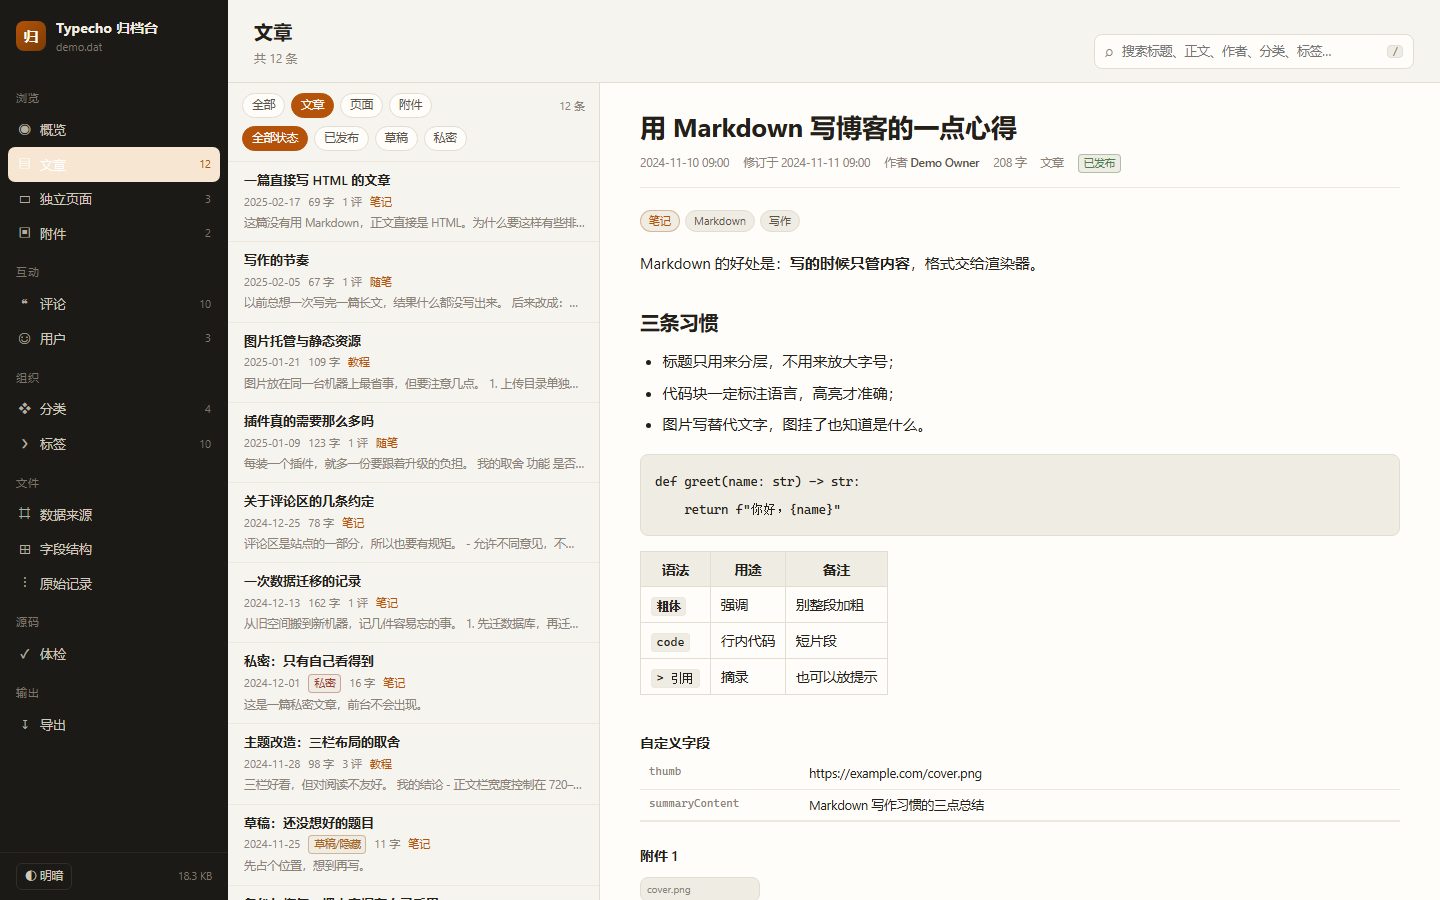
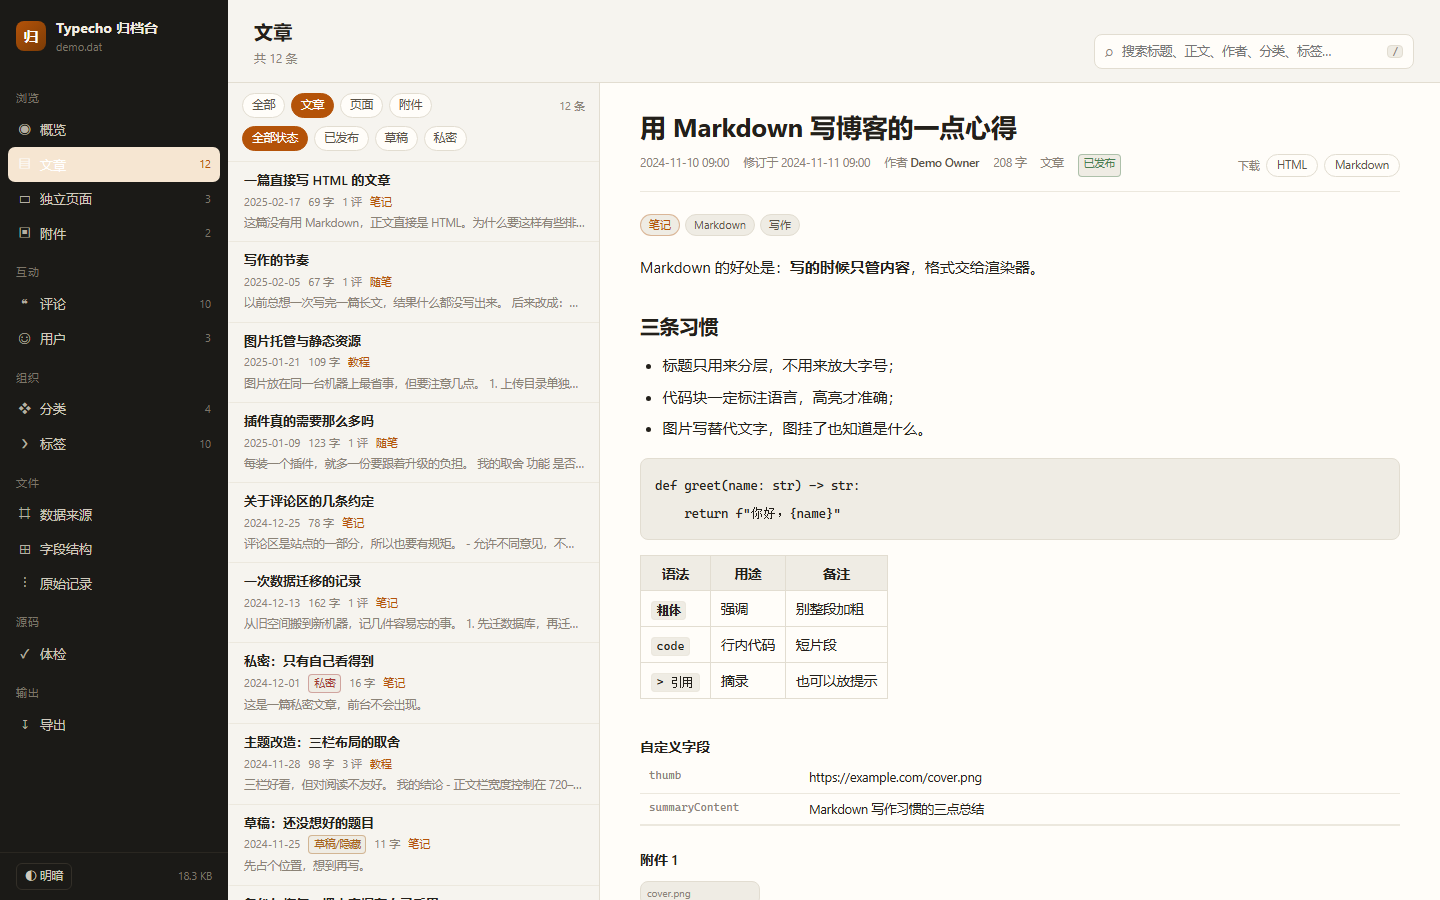
feat: 文章页支持单篇另存为 HTML / Markdown
- 文章页右上角新增「下载 HTML / Markdown」
- HTML：图片转 data URI 内联、带评论、配色跟随当前明暗主题，单文件离线可看
- Markdown：front matter 与批量导出格式完全一致，可直接混入同一目录
- 导出的评论不带评论者 IP
- 服务端模式与静态报告共用同一份实现，纯浏览器端生成，不新增接口

diff --git a/typecho_archive/ui/app.js b/typecho_archive/ui/app.js
@@ -460,6 +460,240 @@
     return `<div class="empty">${msg}</div>`;
   }
 
+  /* ----------------------------------------------------------- 单篇导出
+   * 在浏览界面里把当前文章存成独立文件。两种模式共用同一份实现：
+   * 服务端模式与静态报告都只是页面，生成与下载全在浏览器里完成。
+   */
+
+  const EXPORT_CSS = `
+* { box-sizing: border-box; }
+body { color-scheme: light; margin: 0; background: #f6f4ef; color: #23201b;
+  font: 16px/1.85 "Segoe UI", "Microsoft YaHei UI", "PingFang SC", system-ui, sans-serif;
+  -webkit-font-smoothing: antialiased; }
+.wrap { max-width: 780px; margin: 0 auto; padding: 52px 24px 72px; }
+h1 { font-size: 30px; line-height: 1.36; margin: 0 0 10px; letter-spacing: -.3px; }
+.meta { margin: 0 0 10px; font-size: 13px; color: #5a5349; }
+.chips { margin: 0 0 30px; display: flex; flex-wrap: wrap; gap: 6px; }
+.chip { font-size: 12px; padding: 1px 9px; border-radius: 999px;
+  background: #efece4; border: 1px solid #e2ddd1; color: #5a5349; }
+.prose { font-size: 15.5px; }
+.prose h1, .prose h2, .prose h3, .prose h4 { margin: 1.6em 0 .6em; line-height: 1.4; }
+.prose h2 { font-size: 1.28em; } .prose h3 { font-size: 1.1em; }
+.prose p { margin: 0 0 1.05em; }
+.prose a { color: #b45309; text-decoration: none; border-bottom: 1px solid rgba(180,83,9,.35); }
+.prose img { max-width: 100%; border-radius: 8px; display: block; margin: 1em 0; }
+.prose blockquote { margin: 1em 0; padding: .4em 1em; border-left: 3px solid #ddd7c9;
+  color: #5a5349; background: #efece4; border-radius: 0 6px 6px 0; }
+.prose code { font: .88em ui-monospace, Consolas, monospace; background: #efece4;
+  padding: .12em .38em; border-radius: 4px; border: 1px solid #ece8de; }
+.prose pre { background: #efece4; border: 1px solid #e2ddd1; border-radius: 8px;
+  padding: 12px 14px; overflow-x: auto; margin: 1em 0; }
+.prose pre code { background: none; border: 0; padding: 0; font-size: 13px; line-height: 1.7; }
+.prose table { border-collapse: collapse; margin: 1em 0; font-size: 14px; }
+.prose th, .prose td { border: 1px solid #e2ddd1; padding: 5px 10px; }
+.prose th { background: #efece4; }
+.prose hr { border: 0; border-top: 1px solid #e2ddd1; margin: 2em 0; }
+.prose ul, .prose ol { padding-left: 1.5em; margin: 0 0 1em; }
+.note { border: 1px solid #e2ddd1; border-left-width: 3px; border-radius: 8px;
+  padding: 9px 14px; margin: 1.2em 0; background: #efece4; }
+.note.warning { border-left-color: #a8641a; }
+.note.danger { border-left-color: #a33a34; }
+.note.info { border-left-color: #45688f; }
+.note-h { font-size: 12px; font-weight: 600; margin-bottom: 3px; color: #5a5349; }
+.note-b { font-size: 14px; color: #5a5349; }
+.spoiler { border: 1px dashed #ddd7c9; border-radius: 8px; padding: 10px 14px; background: #efece4; }
+.sp-body { margin-top: 8px; font-size: 13.5px; color: #5a5349; }
+.comments { margin-top: 56px; border-top: 1px solid #e2ddd1; padding-top: 24px; }
+.comments h2 { font-size: 16px; margin: 0 0 14px; }
+.cmt { border-top: 1px solid #ece8de; padding: 9px 0; }
+.cmt .h { display: flex; gap: 8px; align-items: baseline; font-size: 13px; color: #8b8377; }
+.cmt .h b { color: #23201b; }
+.cmt .x { margin-top: 3px; white-space: pre-wrap; color: #5a5349; font-size: 14px; }
+.cmt .kids { margin-left: 16px; padding-left: 12px; border-left: 1px solid #ece8de; }\n.mono { font-family: ui-monospace, Consolas, monospace; font-size: 12px; }
+footer { margin-top: 56px; padding-top: 14px; border-top: 1px solid #e2ddd1;
+  font-size: 12px; color: #8b8377; }
+body.dark { color-scheme: dark; background: #14130f; color: #ece7dc; }
+body.dark .meta, body.dark .cmt .x, body.dark .note-b, body.dark .sp-body { color: #b6ae9f; }
+body.dark .chip, body.dark .prose code, body.dark .prose pre,
+body.dark .prose th, body.dark .note, body.dark .spoiler { background: #1e1c18; border-color: #2e2b25; }
+body.dark .prose blockquote { background: #1b1a16; border-left-color: #2e2b25; }
+body.dark .prose th, body.dark .prose td, body.dark .cmt,
+body.dark .comments, body.dark footer { border-color: #2e2b25; }
+body.dark .cmt .h, body.dark footer { color: #847c6e; }
+body.dark .cmt .h b, body.dark .prose th { color: #ece7dc; }`;
+
+  function yamlScalar(value) {
+    if (value === null || value === undefined || value === '') return 'null';
+    if (typeof value === 'number') return String(value);
+    const text = String(value);
+    if (/^(null|true|false|yes|no|on|off|~)$/i.test(text) || /^[\d.+-]+$/.test(text)
+      || /[:#\[\]{}&*!|>'"%@`\n]/.test(text)) {
+      return JSON.stringify(text);
+    }
+    return text;
+  }
+
+  function yamlField(key, value) {
+    if (Array.isArray(value)) {
+      if (!value.length) return `${key}: []`;
+      return `${key}: ` + value.map(item => `\n  - ${yamlScalar(item)}`).join('');
+    }
+    return `${key}: ${yamlScalar(value)}`;
+  }
+
+  function articleBaseName(post) {
+    const slug = String(post.slug || post.cid)
+      .replace(/[<>:"/\\|?*\u0000-\u001f]/g, '_')
+      .replace(/\s+/g, ' ')
+      .trim()
+      .slice(0, 80);
+    const date = (post.createdText || '').slice(0, 10);
+    return date ? `${date}-${slug}` : slug;
+  }
+
+  function buildMarkdown(post) {
+    const lines = [
+      yamlField('title', post.title),
+      yamlField('cid', post.cid),
+      yamlField('slug', post.slug),
+      yamlField('type', post.type),
+      yamlField('status', post.status),
+      yamlField('date', post.createdText),
+      yamlField('modified', post.modifiedText),
+      yamlField('author', post.author),
+      yamlField('categories', post.categories.map(c => c.name)),
+      yamlField('tags', post.tags.map(t => t.name)),
+      yamlField('template', post.template),
+      yamlField('comments', post.commentsNum),
+      yamlField('word_count', post.chars),
+    ];
+    const body = String(post.text || '').replace(/^\s*<!--\s*markdown\s*-->\s*/i, '');
+    return '---\n' + lines.join('\n') + '\n---\n\n' + body + '\n';
+  }
+
+  async function inlineImages(root) {
+    const images = [...root.querySelectorAll('img')];
+    await Promise.all(images.map(async img => {
+      const src = img.getAttribute('src') || '';
+      if (!src || src.startsWith('data:')) return;
+      try {
+        const res = await fetch(src);
+        if (!res.ok) return;
+        const blob = await res.blob();
+        if (!blob.size || blob.size > 4 * 1024 * 1024) return;
+        const dataUrl = await new Promise((resolve, reject) => {
+          const reader = new FileReader();
+          reader.onload = () => resolve(reader.result);
+          reader.onerror = reject;
+          reader.readAsDataURL(blob);
+        });
+        img.setAttribute('src', dataUrl);
+      } catch {
+        /* 取不到就保留原地址 */
+      }
+    }));
+  }
+
+  function sourceLabel() {
+    const file = A.file || {};
+    return String(file.origin || file.path || '').split(/[\\/]/).pop() || '';
+  }
+
+  async function buildStandaloneHtml(post) {
+    const holder = document.createElement('div');
+    holder.innerHTML = renderBody(post);
+    await inlineImages(holder);
+
+    const comments = A.comments.filter(c => c.cid === post.cid);
+    const commentHtml = comments.length
+      ? `<section class="comments"><h2>评论 ${comments.length}</h2>${buildCommentTree(comments, false)}</section>`
+      : '';
+
+    const meta = [
+      post.createdText,
+      post.author ? `作者 ${post.author}` : '',
+      post.type === 'attachment' ? '' : `${nf(post.chars)} 字`,
+      post.typeLabel,
+    ].filter(Boolean).map(esc).join(' · ');
+
+    const chips = [...post.categories.map(c => c.name), ...post.tags.map(t => t.name)];
+    const chipsHtml = chips.length
+      ? `<p class="chips">${chips.map(name => `<span class="chip">${esc(name)}</span>`).join('')}</p>`
+      : '';
+
+    const stamp = new Date().toLocaleString('sv-SE').slice(0, 16);
+    // 导出的样子跟着当前界面走，而不是跟着系统偏好
+    const dark = document.documentElement.dataset.theme === 'dark';
+
+    return `<!doctype html>
+<html lang="zh-CN">
+<head>
+<meta charset="utf-8">
+<meta name="viewport" content="width=device-width, initial-scale=1">
+<title>${esc(post.title)}</title>
+<style>${EXPORT_CSS}</style>
+</head>
+<body${dark ? ' class="dark"' : ''}>
+<article class="wrap">
+  <header>
+    <h1>${esc(post.title)}</h1>
+    <p class="meta">${meta}</p>
+    ${chipsHtml}
+  </header>
+  <div class="prose">${holder.innerHTML}</div>
+  ${commentHtml}
+  <footer>由 Typecho 归档台导出 · ${esc(sourceLabel())} · cid ${post.cid} · ${esc(stamp)}</footer>
+</article>
+</body>
+</html>`;
+  }
+
+  function saveBlob(name, text, mime) {
+    const blob = new Blob([text], { type: `${mime};charset=utf-8` });
+    const url = URL.createObjectURL(blob);
+    const link = document.createElement('a');
+    link.href = url;
+    link.download = name;
+    link.style.display = 'none';
+    document.body.appendChild(link);
+    link.click();
+    setTimeout(() => { URL.revokeObjectURL(url); link.remove(); }, 2000);
+  }
+
+  let toastTimer = null;
+  function toast(message) {
+    let node = document.getElementById('toast');
+    if (!node) {
+      node = document.createElement('div');
+      node.id = 'toast';
+      document.body.appendChild(node);
+    }
+    node.textContent = message;
+    node.classList.add('show');
+    clearTimeout(toastTimer);
+    toastTimer = setTimeout(() => node.classList.remove('show'), 2600);
+  }
+
+  async function downloadArticle(cid, format) {
+    const post = A.posts.find(x => x.cid === cid);
+    if (!post) { toast('找不到这篇文章'); return; }
+    const base = articleBaseName(post);
+    try {
+      if (format === 'md') {
+        saveBlob(`${base}.md`, buildMarkdown(post), 'text/markdown');
+        toast(`已保存 ${base}.md`);
+        return;
+      }
+      toast('正在打包图片…');
+      const html = await buildStandaloneHtml(post);
+      saveBlob(`${base}.html`, html, 'text/html');
+      const count = A.comments.filter(c => c.cid === cid).length;
+      toast(`已保存 ${base}.html${count ? `（含 ${count} 条评论）` : ''}`);
+    } catch (err) {
+      toast(`导出失败：${err.message}`);
+    }
+  }
+
   function detailPost(cid) {
     const p = A.posts.find(x => x.cid === cid);
     if (!p) return emptyDetail('内容不存在');
@@ -479,6 +713,11 @@
         ${badges(p)}
         ${p.hasPassword ? '<span class="badge priv">加密</span>' : ''}
         ${p.template ? `<span class="mono dim">${esc(p.template)}</span>` : ''}
+        ${p.type === 'attachment' ? '' : `<div class="a-actions">
+          <span class="dim">下载</span>
+          <button class="chip" data-dl="html" data-dlc="${p.cid}" title="保存为可独立打开的网页">HTML</button>
+          <button class="chip" data-dl="md" data-dlc="${p.cid}" title="保存为带 front matter 的 Markdown">Markdown</button>
+        </div>`}
       </div>
       ${(p.categories.length || p.tags.length) ? `<div class="a-chips">
         ${p.categories.map(c => `<span class="a-chip cat">${esc(c.name)}</span>`).join('')}
@@ -518,7 +757,7 @@
     </div>`;
   }
 
-  function buildCommentTree(list) {
+  function buildCommentTree(list, showIp = true) {
     const byParent = new Map();
     list.forEach(c => {
       const k = c.parent || 0;
@@ -530,7 +769,7 @@
         <div class="h"><b>${esc(c.author)}</b>
           <span>${esc(c.createdText)}</span>
           ${c.status !== 'approved' ? `<span class="badge hid">${esc(c.status)}</span>` : ''}
-          ${c.ip ? `<span class="mono" style="font-size:10px">${esc(c.ip)}</span>` : ''}
+          ${showIp && c.ip ? `<span class="mono" style="font-size:10px">${esc(c.ip)}</span>` : ''}
         </div>
         <div class="x">${esc(c.text)}</div>
         ${depth < 3 ? `<div class="kids">${walk(c.coid, depth + 1)}</div>` : ''}
@@ -1105,6 +1344,13 @@
       if (ftype) { S.ftype = ftype.dataset.ftype; S.sel = null; rerender(); return; }
       const fstatus = e.target.closest('[data-fstatus]');
       if (fstatus) { S.fstatus = fstatus.dataset.fstatus; S.sel = null; rerender(); return; }
+
+      const dl = e.target.closest('[data-dl]');
+      if (dl) {
+        e.preventDefault();
+        downloadArticle(Number(dl.dataset.dlc), dl.dataset.dl);
+        return;
+      }
 
       const cid = e.target.closest('[data-cid]');
       if (cid) { S.sel = Number(cid.dataset.cid); S.selScroll = true; rerender(); return; }

diff --git a/typecho_archive/ui/app.css b/typecho_archive/ui/app.css
@@ -161,6 +161,18 @@ button, input, select { font: inherit; color: inherit; }
 .article h2.a-title { font-size: 26px; line-height: 1.35; margin: 0 0 10px; font-weight: 680; letter-spacing: -.2px; }
 .a-meta { display: flex; flex-wrap: wrap; gap: 6px 14px; font-size: 11.5px; color: var(--ink-3); padding-bottom: 14px; border-bottom: 1px solid var(--line-soft); margin-bottom: 22px; }
 .a-meta b { color: var(--ink-2); font-weight: 550; }
+.a-actions { margin-left: auto; display: inline-flex; align-items: center; gap: 6px; }
+.a-actions .dim { font-size: 11px; }
+.a-actions .chip { padding: 1px 10px; font-size: 11.5px; }
+
+#toast {
+  position: fixed; left: 50%; bottom: 30px; transform: translate(-50%, 12px);
+  background: var(--side); color: #f2ede3; padding: 8px 18px; border-radius: 8px;
+  font-size: 12.5px; opacity: 0; pointer-events: none; z-index: 60;
+  transition: opacity .18s ease, transform .18s ease;
+  box-shadow: 0 8px 28px rgba(0, 0, 0, .22);
+}
+#toast.show { opacity: 1; transform: translate(-50%, 0); }
 .a-chips { display: flex; flex-wrap: wrap; gap: 5px; margin-bottom: 18px; }
 .a-chip { font-size: 11px; padding: 1px 8px; border-radius: 999px; background: var(--bg-soft); border: 1px solid var(--line); color: var(--ink-2); }
 .a-chip.cat { color: var(--accent); border-color: color-mix(in srgb, var(--accent) 35%, transparent); }

diff --git a/typecho_archive/__init__.py b/typecho_archive/__init__.py
@@ -1,4 +1,4 @@
 """Typecho 归档台 — 读取 Typecho 备份文件 (.dat) 与站点源码包。"""
 
-__version__ = "1.0.0"
+__version__ = "1.1.0"
 __all__ = ["__version__"]

diff --git a/README.md b/README.md
@@ -28,6 +28,7 @@ Typecho 的备份只导出**内容数据**，存成一个自定义的二进制 `
 | **自动识别输入** | `.dat` / `.tar.gz` / `.tar` / `.zip` / 解压后的目录 / `.db`，拖进去就行，两个文件不必成对 |
 | **浏览与检索** | 文章、独立页面、附件、评论、分类标签、用户，全文搜索 + 按状态/时间/标签筛选 |
 | **正文还原** | 自己实现的 Markdown 渲染器，支持 Spoiler 插件的 `[note]` 提示块与遮罩语法 |
+| **单篇另存** | 文章页一键存成独立 HTML（图片内联、含评论，离线可看），或带 front matter 的 Markdown |
 | **完整性体检** | 逐条 md5、文件尾魔数、孤儿评论、重复缩略名、缺失附件、分类计数偏差，逐项列出具体 id |
 | **两边对账** | 同时给出备份与源码库时，按主键比对，列出「只在这一边存在」的每一条 |
 | **原始记录** | 任意一条记录都能看到字段表、十六进制转储和 md5 状态——想自己写解析器时最有用 |
@@ -79,6 +80,12 @@ python -m typecho_archive report 备份.dat -o 归档报告.html
 | ![原始记录](docs/img/records.png) | ![体检](docs/img/integrity.png) |
 
 `/` 聚焦搜索框，`Esc` 清空，左下角切换明暗主题，地址栏哈希可以直接定位到某篇文章。
+
+打开一篇文章后，右上角有 **下载 HTML / Markdown**：
+
+- **HTML**：单篇自成一体，图片转成 data URI 内嵌，带上评论，发给别人双击就能看；
+  配色跟随你当前的明暗主题，不看系统偏好。
+- **Markdown**：front matter 与批量导出的格式完全一致，可以直接丢进同一个文件夹。
 
 ## 两种数据来源
 

diff --git a/README.en.md b/README.en.md
@@ -31,6 +31,7 @@ including a minimal parser you can copy.
 | **Auto-detects input** | `.dat`, `.tar.gz`, `.tar`, `.zip`, an extracted directory, or `.db`. Drag either file — they do not need to come in pairs |
 | **Browse & search** | Posts, pages, attachments, comments, categories, tags, users; full-text search with filters |
 | **Renders content** | Built-in Markdown renderer, including the Spoiler plugin's `[note]` blocks and spoiler syntax |
+| **Single-article export** | Save the open article as a self-contained HTML (images inlined, comments included, works offline) or as Markdown with front matter |
 | **Integrity report** | Per-record md5, footer magic, orphan comments, duplicate slugs, missing uploads, stale category counters — each with concrete ids |
 | **Two-way diff** | Give both a backup and a source archive and it lists, per primary key, what exists only on one side |
 | **Raw records** | For any record: field table, hex dump, md5 status — the page you want when writing your own parser |
